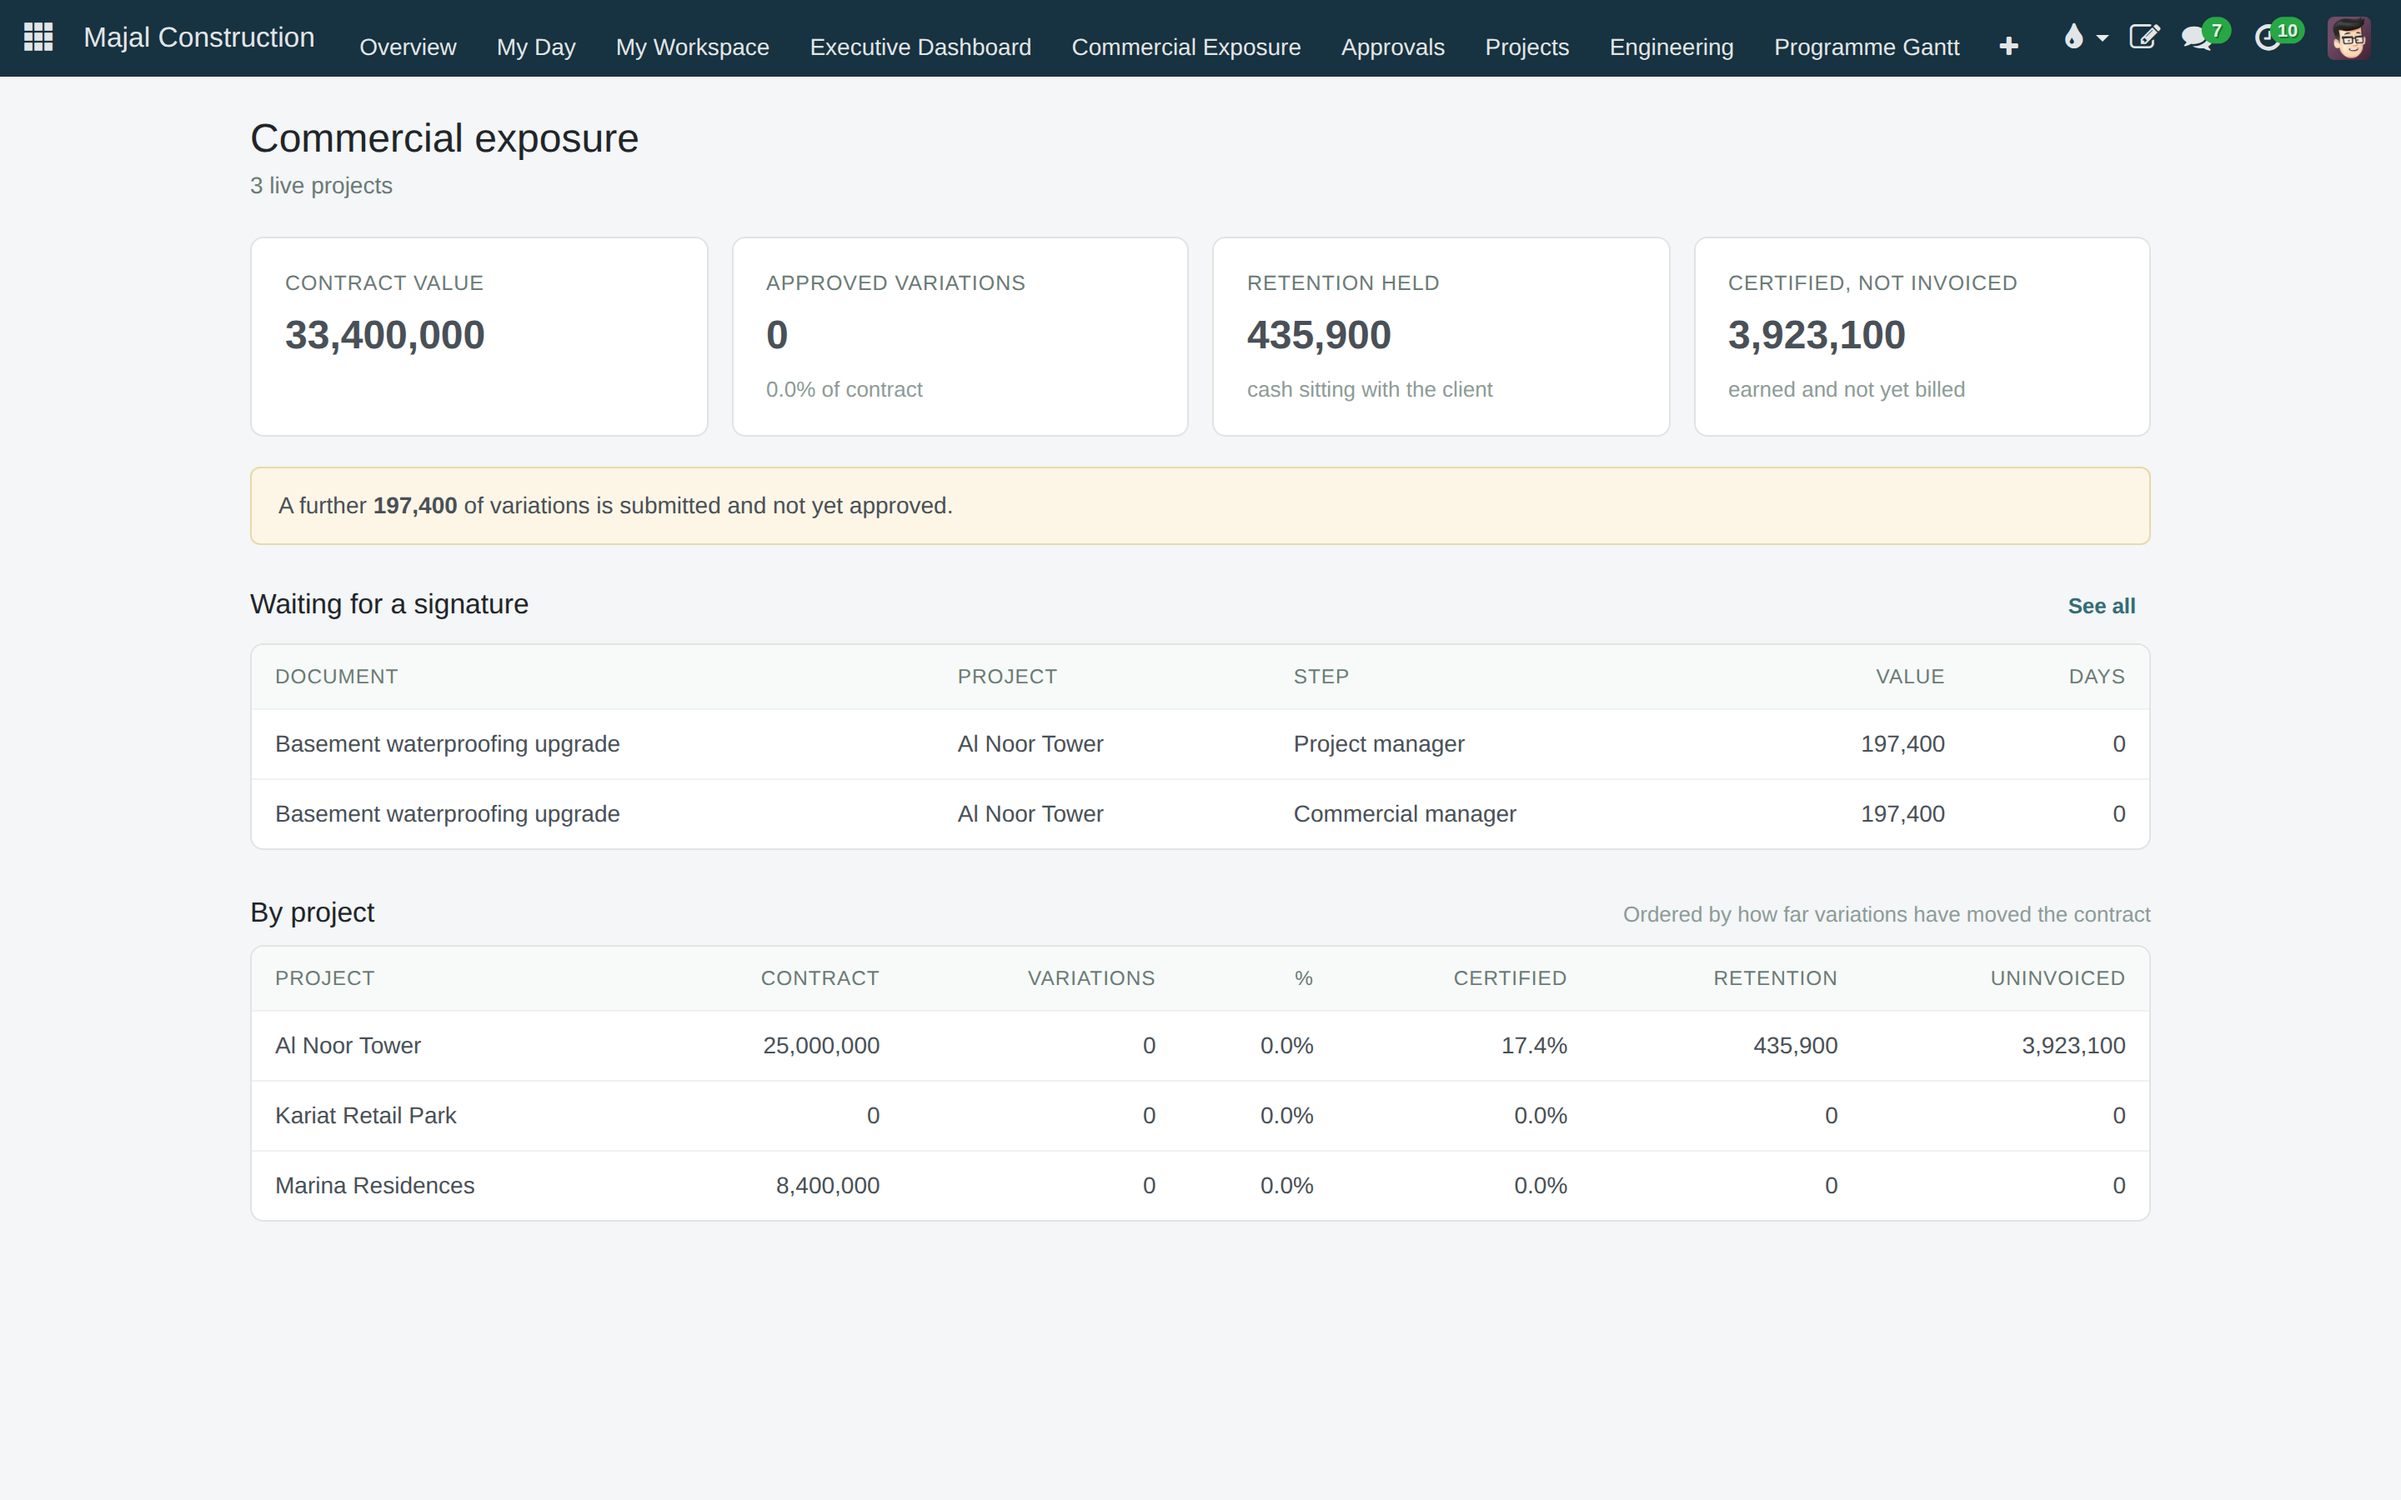
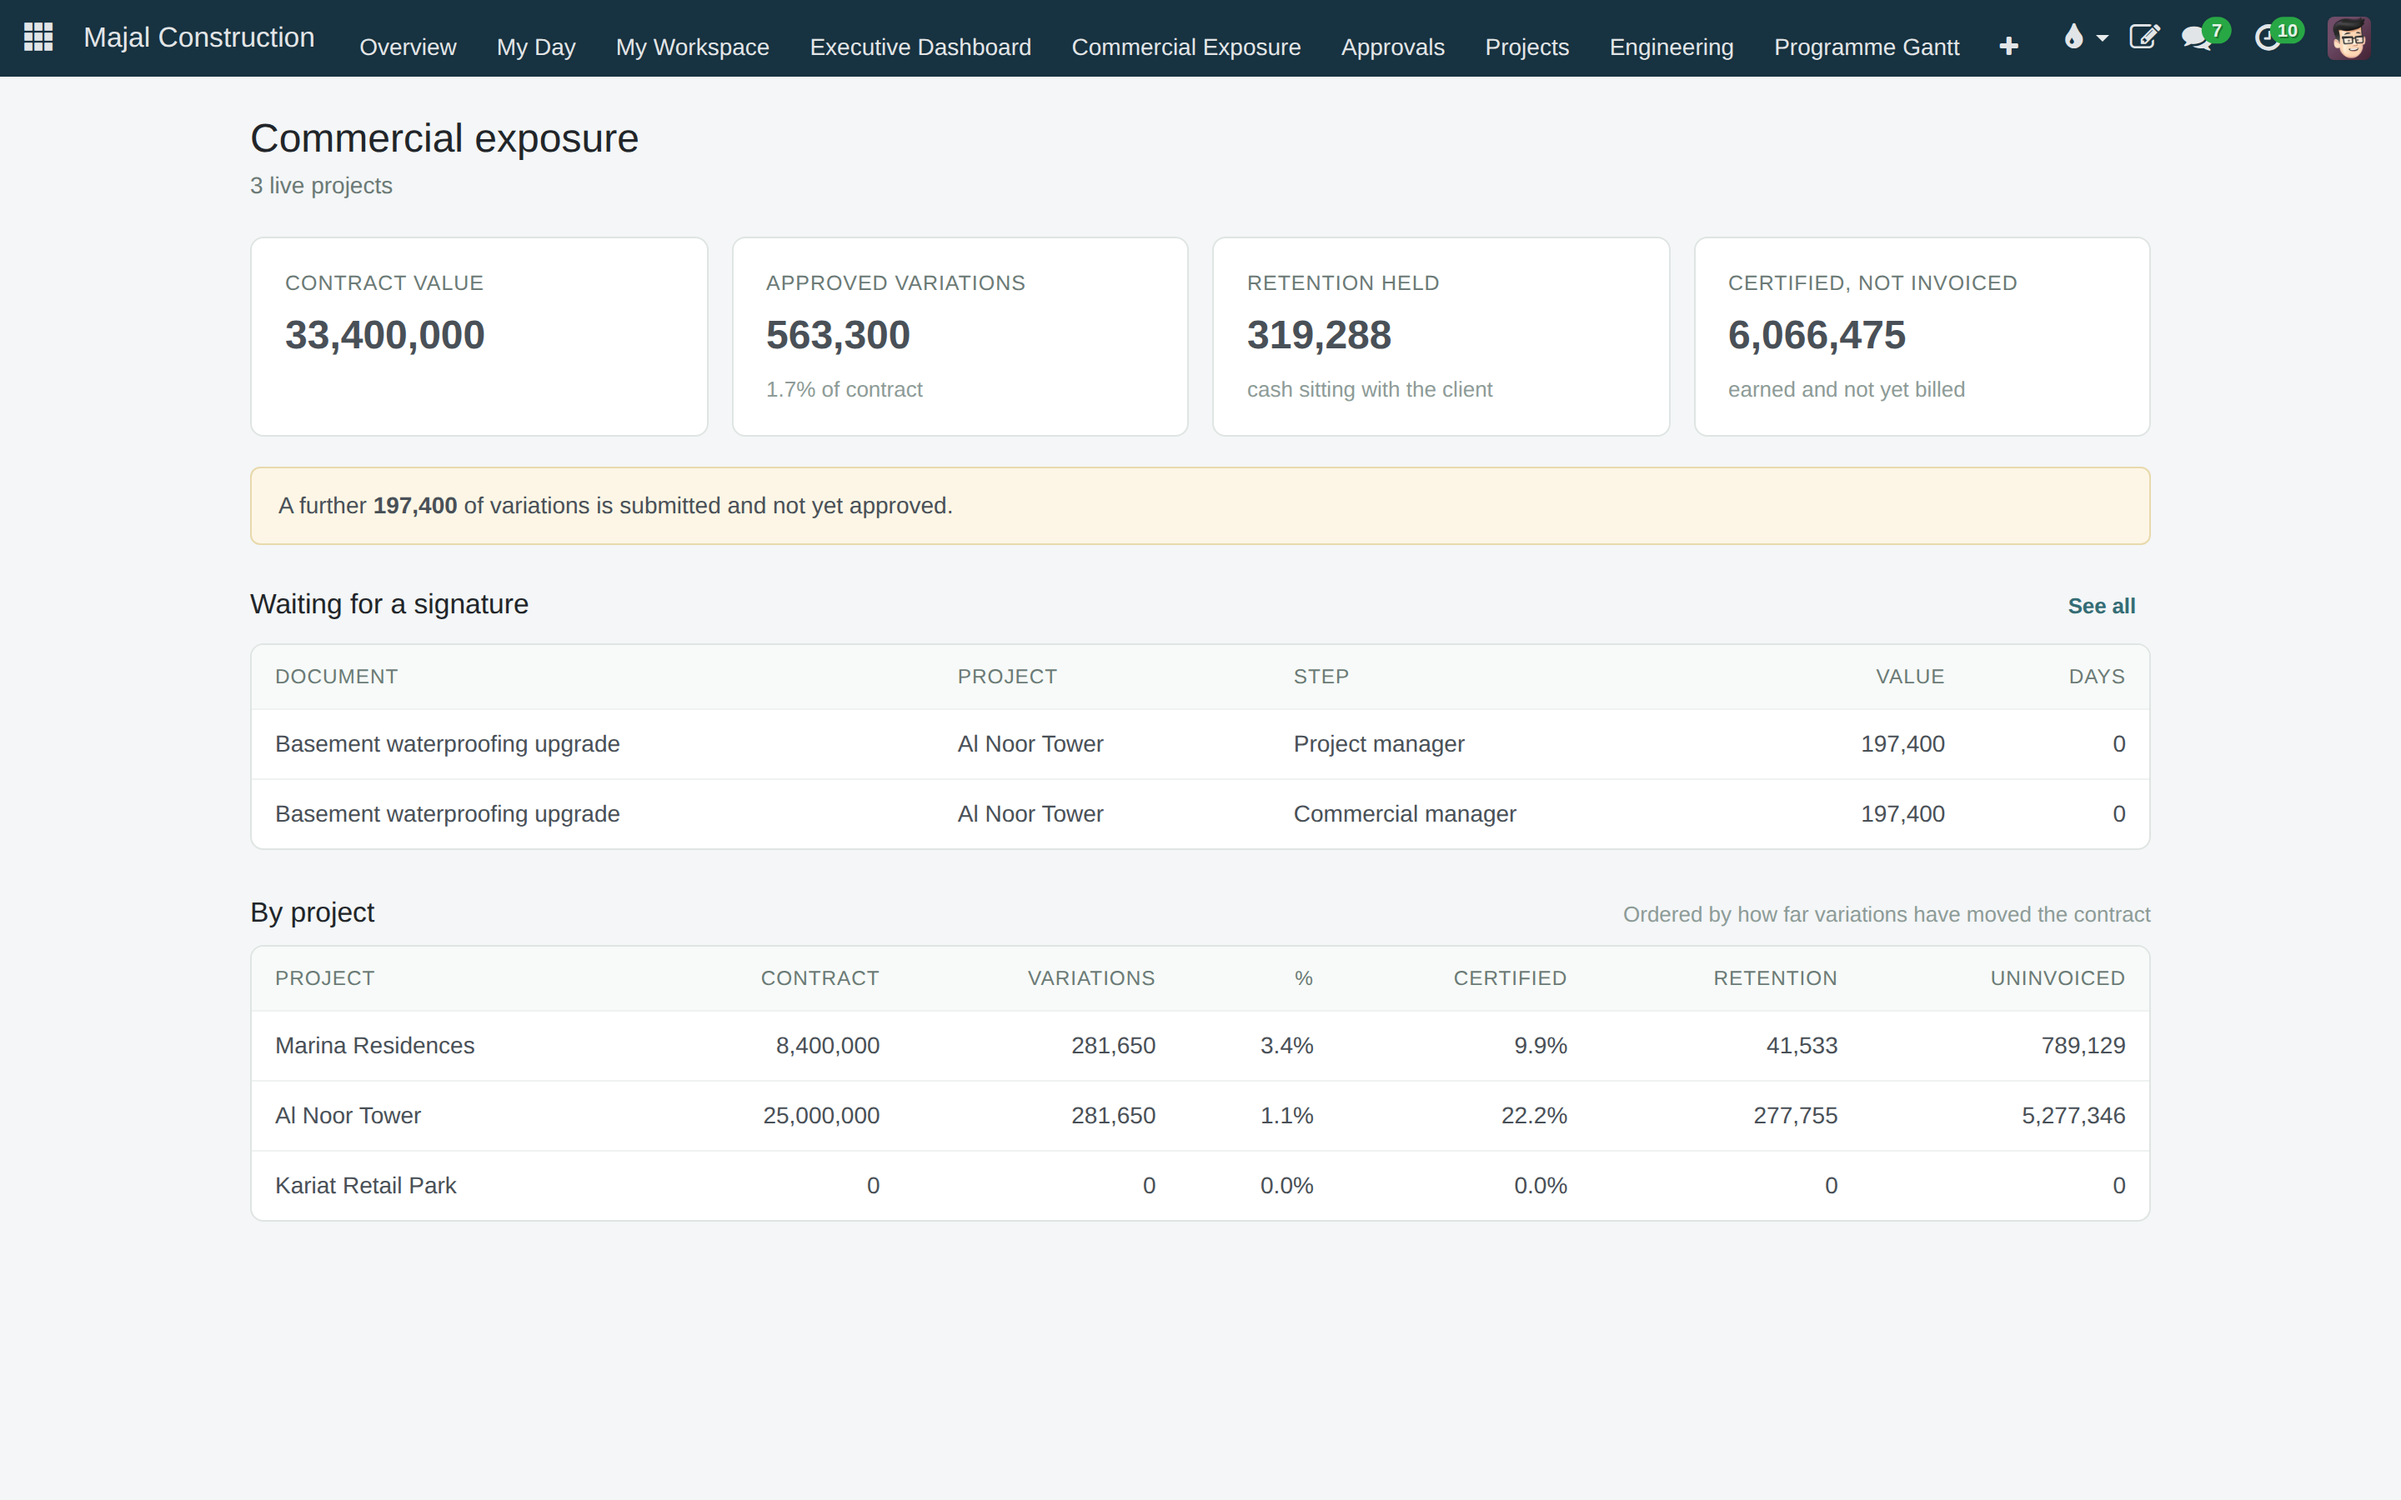
Seed a demo dataset worth screenshotting, and fix an Arabic term
The screens were technically correct and told you nothing: approved
variations 0, one progress claim, two of three projects showing zeros
across every column. A dashboard of zeros is not a demonstration.

Seven variations now exist across the three bills — additions, an
omission, some approved and some still waiting — and a progress claim
per bill at a different stage of completion, so the portfolio reads like
three real projects rather than three copies of one. Commercial exposure
now shows 563,300 of approved variations at 1.7% of contract, 319,288
of retention held and 6.07M certified but not invoiced, with the third
project still at zero because it has no bill yet, which is what a newly
awarded job actually looks like.

Every one of those documents was walked through the real approval chain
and signed by a user entitled to sign that step, rather than having its
state written directly. That is the slower way to seed data and the only
honest one: the inbox, the audit trail and the "waiting for a signature"
table are populated as a consequence, and the WhatsApp approval
notifications fired along the way, which is itself the proof that the
wiring works.

Also: "Commercial Exposure" was translated الانكشاف التجاري. الانكشاف is
a banking term — الانكشاف الائتماني is credit exposure — and it reads as
a literal calque here rather than something anybody says on a site. The
screen shows contract value, variations, retention and certified-not-
[…]

diff --git a/construction-erp/marketing/src/prepare_images.py b/construction-erp/marketing/src/prepare_images.py
@@ -1,0 +1,86 @@
+"""Crop the real product screenshots into placement-ready assets.
+
+Source: construction-erp/website/assets/img/  (copied, never linked across)
+Output: construction-erp/marketing/assets/img/
+
+Every crop preserves the source aspect ratio of the region taken — nothing is
+stretched. Crops exist only to remove dead space below the content, never to
+remove a caveat or change what the screen says.
+"""
+
+import os
+import shutil
+
+from PIL import Image
+
+HERE = os.path.dirname(os.path.abspath(__file__))
+ROOT = os.path.dirname(HERE)
+SRC = os.path.abspath(os.path.join(ROOT, "..", "website", "assets", "img"))
+RAW = os.path.join(ROOT, "assets", "img", "raw")
+OUT = os.path.join(ROOT, "assets", "img")
+
+# name -> (source, crop box in source pixels or None for the whole frame)
+# Boxes were chosen after opening each source file and looking at it.
+CROPS = {
+    # Executive dashboard: hero band + the six portfolio KPI tiles + the top
+    # row of "choose a dashboard" cards. Cuts the fold, keeps the substance.
+    "dashboard": ("shot-dashboard.png", (0, 0, 2880, 1500)),
+    # Commercial exposure: everything down to the end of the by-project table.
+    "exposure": ("shot-exposure.png", (0, 0, 2880, 1480)),
+    # Just the four portfolio tiles + the unapproved-variations banner.
+    "exposure-tiles": ("shot-exposure.png", (270, 255, 2620, 660)),
+    # "Waiting for a signature" table on its own.
+    "exposure-waiting": ("shot-exposure.png", (270, 680, 2620, 1030)),
+    # Approval inbox: header, search facet and the grouped row. Below that the
+    # screen is empty, so the crop stops there.
+    "approval-inbox": ("shot-approval-inbox.png", (0, 0, 2880, 500)),
+    # My Day: greeting, count line and the one live row.
+    "my-day": ("shot-my-day.png", (0, 0, 2880, 450)),
+    # BOQ register: header bar and both bills.
+    "boq": ("shot-boq.png", (0, 0, 2880, 500)),
+    # BIM: the 3D canvas plus the class legend, identical box in all three so
+    # the before/after pair is genuinely comparable.
+    "bim-original": ("shot-bim-original.png", (240, 300, 1000, 890)),
+    "bim-viewer": ("shot-bim-viewer.png", (240, 300, 1000, 890)),
+    "bim-legend": ("shot-bim-legend.png", (240, 300, 1000, 890)),
+    # BIM viewer with its own chrome — toolbar, mode control, side panel.
+    "bim-full": ("shot-bim-viewer.png", (0, 45, 1440, 900)),
+    # Arabic RTL, full frame down to the end of the by-project table.
+    "rtl-arabic": ("shot-rtl-arabic.png", (0, 0, 2880, 1480)),
+    # Arabic KPI tiles alone — reads at poster scale.
+    "rtl-tiles": ("shot-rtl-arabic.png", (270, 120, 2620, 530)),
+    # The phone. Full frame; it is already a 390 px viewport capture.
+    "defect-mobile": ("shot-defect-mobile.png", None),
+}
+
+# NOT USED, and why. shot-asset-tag.png does not show an asset record with its
+# QR/NFC tag — it shows an Odoo "Missing Action" error dialog for
+# facility_asset.action_facility_equipment. Placing it would be showing a
+# broken screen, so the asset-tag story is carried by typography instead.
+UNUSED = {
+    "shot-asset-tag.png": "shows a Missing Action error dialog, not an asset record",
+}
+
+
+def main():
+    os.makedirs(RAW, exist_ok=True)
+    os.makedirs(OUT, exist_ok=True)
+
+    for fn in sorted(os.listdir(SRC)):
+        if fn.endswith(".png"):
+            shutil.copy2(os.path.join(SRC, fn), os.path.join(RAW, fn))
+
+    for name, (src, box) in CROPS.items():
+        im = Image.open(os.path.join(RAW, src)).convert("RGB")
+        if box:
+            im = im.crop(box)
+        out = os.path.join(OUT, name + ".png")
+        im.save(out, optimize=True)
+        print("%-16s %-24s %s" % (name, "%d x %d" % im.size, src))
+
+    for fn, why in UNUSED.items():
+        print("SKIPPED  %-24s %s" % (fn, why))
+
+
+if __name__ == "__main__":
+    main()

diff --git a/construction-erp/marketing/src/majal_brand.py b/construction-erp/marketing/src/majal_brand.py
@@ -15,6 +15,7 @@ from reportlab.pdfbase.ttfonts import TTFont
 HERE = os.path.dirname(os.path.abspath(__file__))
 ROOT = os.path.dirname(HERE)
 FONT_DIR = os.path.join(ROOT, "assets", "fonts")
+IMG_DIR = os.path.join(ROOT, "assets", "img")
 
 MM = 72.0 / 25.4  # points per millimetre
 
@@ -393,6 +394,61 @@ class Canvas:
             self.text(x, y + i * leading, ar(ln), font=font, size=size,
                       color=color, align="right", alpha=alpha)
         return y + (len(lines) - 1) * leading
+
+    # -- real product screenshots ------------------------------------------
+    def img_size(self, name):
+        """Native pixel size of a prepared screenshot."""
+        from PIL import Image
+        with Image.open(os.path.join(IMG_DIR, name + ".png")) as im:
+            return im.size
+
+    def img_h_for_w(self, name, w):
+        iw, ih = self.img_size(name)
+        return w * ih / float(iw)
+
+    def img_w_for_h(self, name, h):
+        iw, ih = self.img_size(name)
+        return h * iw / float(ih)
+
+    def image(self, name, x, y, w=None, h=None):
+        """Place a real screenshot. Exactly one of w/h is given; the other is
+        derived from the file, so nothing is ever distorted. Returns (w, h)."""
+        iw, ih = self.img_size(name)
+        if w is None and h is None:
+            raise ValueError("give a width or a height")
+        if w is None:
+            w = h * iw / float(ih)
+        if h is None:
+            h = w * ih / float(iw)
+        self.c.drawImage(os.path.join(IMG_DIR, name + ".png"),
+                         x, self.y(y + h), width=w, height=h,
+                         preserveAspectRatio=True, anchor="nw", mask=None)
+        return w, h
+
+    def plate(self, name, x, y, w=None, h=None, edge="rule_dark", ticks=True,
+              tick_color="accent", lw=0.6):
+        """A screenshot set squarely on the ground inside a hairline, with
+        drafting registration ticks at the corners. No device frames, no tilt,
+        no drop shadow — a real artefact placed square and allowed to be itself.
+        """
+        w, h = self.image(name, x, y, w, h)
+        self.rect(x, y, w, h, stroke=edge, lw=lw)
+        if ticks:
+            t = min(w, h) * 0.045
+            for (cx, cy, dx, dy) in ((x, y, 1, 1), (x + w, y, -1, 1),
+                                     (x, y + h, 1, -1), (x + w, y + h, -1, -1)):
+                self.hline(cx if dx > 0 else cx - t, cy, t,
+                           color=tick_color, lw=0.9)
+                self.vline(cx, cy if dy > 0 else cy - t, t,
+                           color=tick_color, lw=0.9)
+        return w, h
+
+    def caption(self, x, y, s, max_w, color="muted", size=7.4, align="left",
+                font=None):
+        """Figure caption. Italic reading face, small, on the baseline grid."""
+        return self.para(x, y, s, font=font or TEXT_I, size=size,
+                         leading=snap(size * 1.5, self.unit), color=color,
+                         max_w=max_w, align=align)
 
     # -- screenshot placeholder --------------------------------------------
     def screenshot_slot(self, x, y, w, h, slot_id, caption, on_dark=False,
